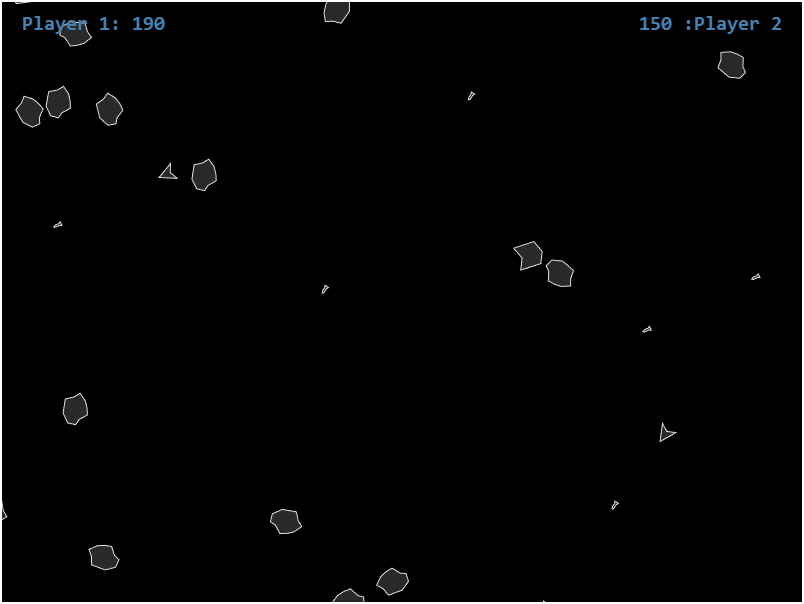
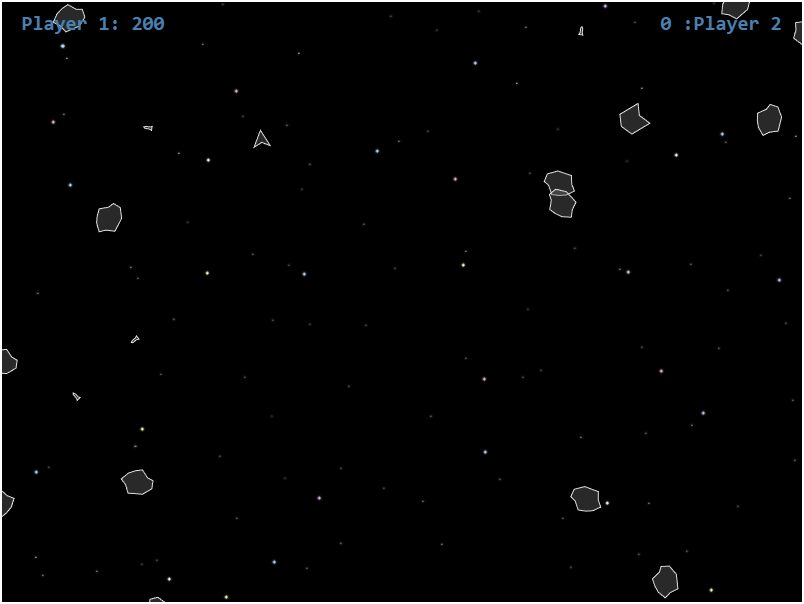
doc: changelog + update + version

diff --git a/src/game.css b/src/game.css
@@ -4,7 +4,6 @@
 
 @layer game {
   #pause-menu {
-    position: absolute;
     inset: 0;
     color: currentColor;
     background-color: #000c;
@@ -12,7 +11,6 @@
   }
 
   .background-paralax {
-    perspective: -10px;
     display: contents;
   }
 

diff --git a/src/main.js b/src/main.js
@@ -1,4 +1,4 @@
-const VERSION = '2.6.0-alpha';
+const VERSION = '2.1.0-alpha';
 let INPUT = null;
 let GAME = null;
 

diff --git a/docs/changelog.md b/docs/changelog.md
@@ -2,6 +2,22 @@
 
 <!-- Added, Changed, Fixed, Removed -->
 
+## [2.1.0-alpha] – 03.10.2025
+
+### Added
+
+- Parallax starfield – new animated background for enhanced visual depth
+- Route guard – restricts access to views based on application state
+- Single-source versioning – script automatically populates app version in meta tags and UI placeholders
+- `animation.css` – centralized file containing all application animations
+- `enums.js` – file containing all enums used across the app
+- Repository links – "About" section now includes links to the main repository and changelog
+
+### Changed
+
+- Project structure – moved enums into `enums.js`; consolidated shared scripts into unified `main.js`
+- `index.html` – relocated inline script block into `main.js` for improved maintainability
+
 ## [2.0.0-alpha] – 28.09.2025
 
 ### Added

diff --git a/readme.md b/readme.md
@@ -33,7 +33,7 @@ Click to view full size:
 ## Versioning
 
 This project tries to apply [Semantic Versioning](https://semver.org/).\
-Current version: `2.6.0-alpha`\
+Current version: `2.1.0-alpha`\
 See [Changelog.md](docs/changelog.md) for project history
 
 # Roadmap
@@ -44,6 +44,7 @@ See [Roadmap.md](docs/roadmap.md) for detailed list
 - [x] Menu
 - [ ] Game modes
 - [ ] Ship upgrades
+- [ ] Pickups
 - [ ] Effects
 - [ ] Score screen
 - [ ] Debug Overlay

diff --git a/docs/todo.md b/docs/todo.md
@@ -9,6 +9,7 @@
 - [ ] game over screen
 - [ ] add licence
 - [ ] add analitics (count views)?
+- [ ] favicon
 
 ## Refactor
 
@@ -22,6 +23,7 @@
 - [ ] error handling
 - [ ] refactor router, switch to classes
 - [ ] refactor game and input, declare as consts and init via initGame()
+- [ ] game scene into grid layout, delete z-indexes reorder layers (besides dialog)
 
 ## Fix
 

diff --git a/docs/roadmap.md b/docs/roadmap.md
@@ -34,5 +34,10 @@
 - [ ] Visual effects (on destroy)
 - [ ] Settings (localstorage)
 - [ ] Exploding rockets
+- [ ] Weapons?
+  - [ ] Plasma
+  - [ ] Lasers
 - [ ] UI
 - [ ] Menu controls
+- [ ] Big Asteroids
+- [ ] Pickups
